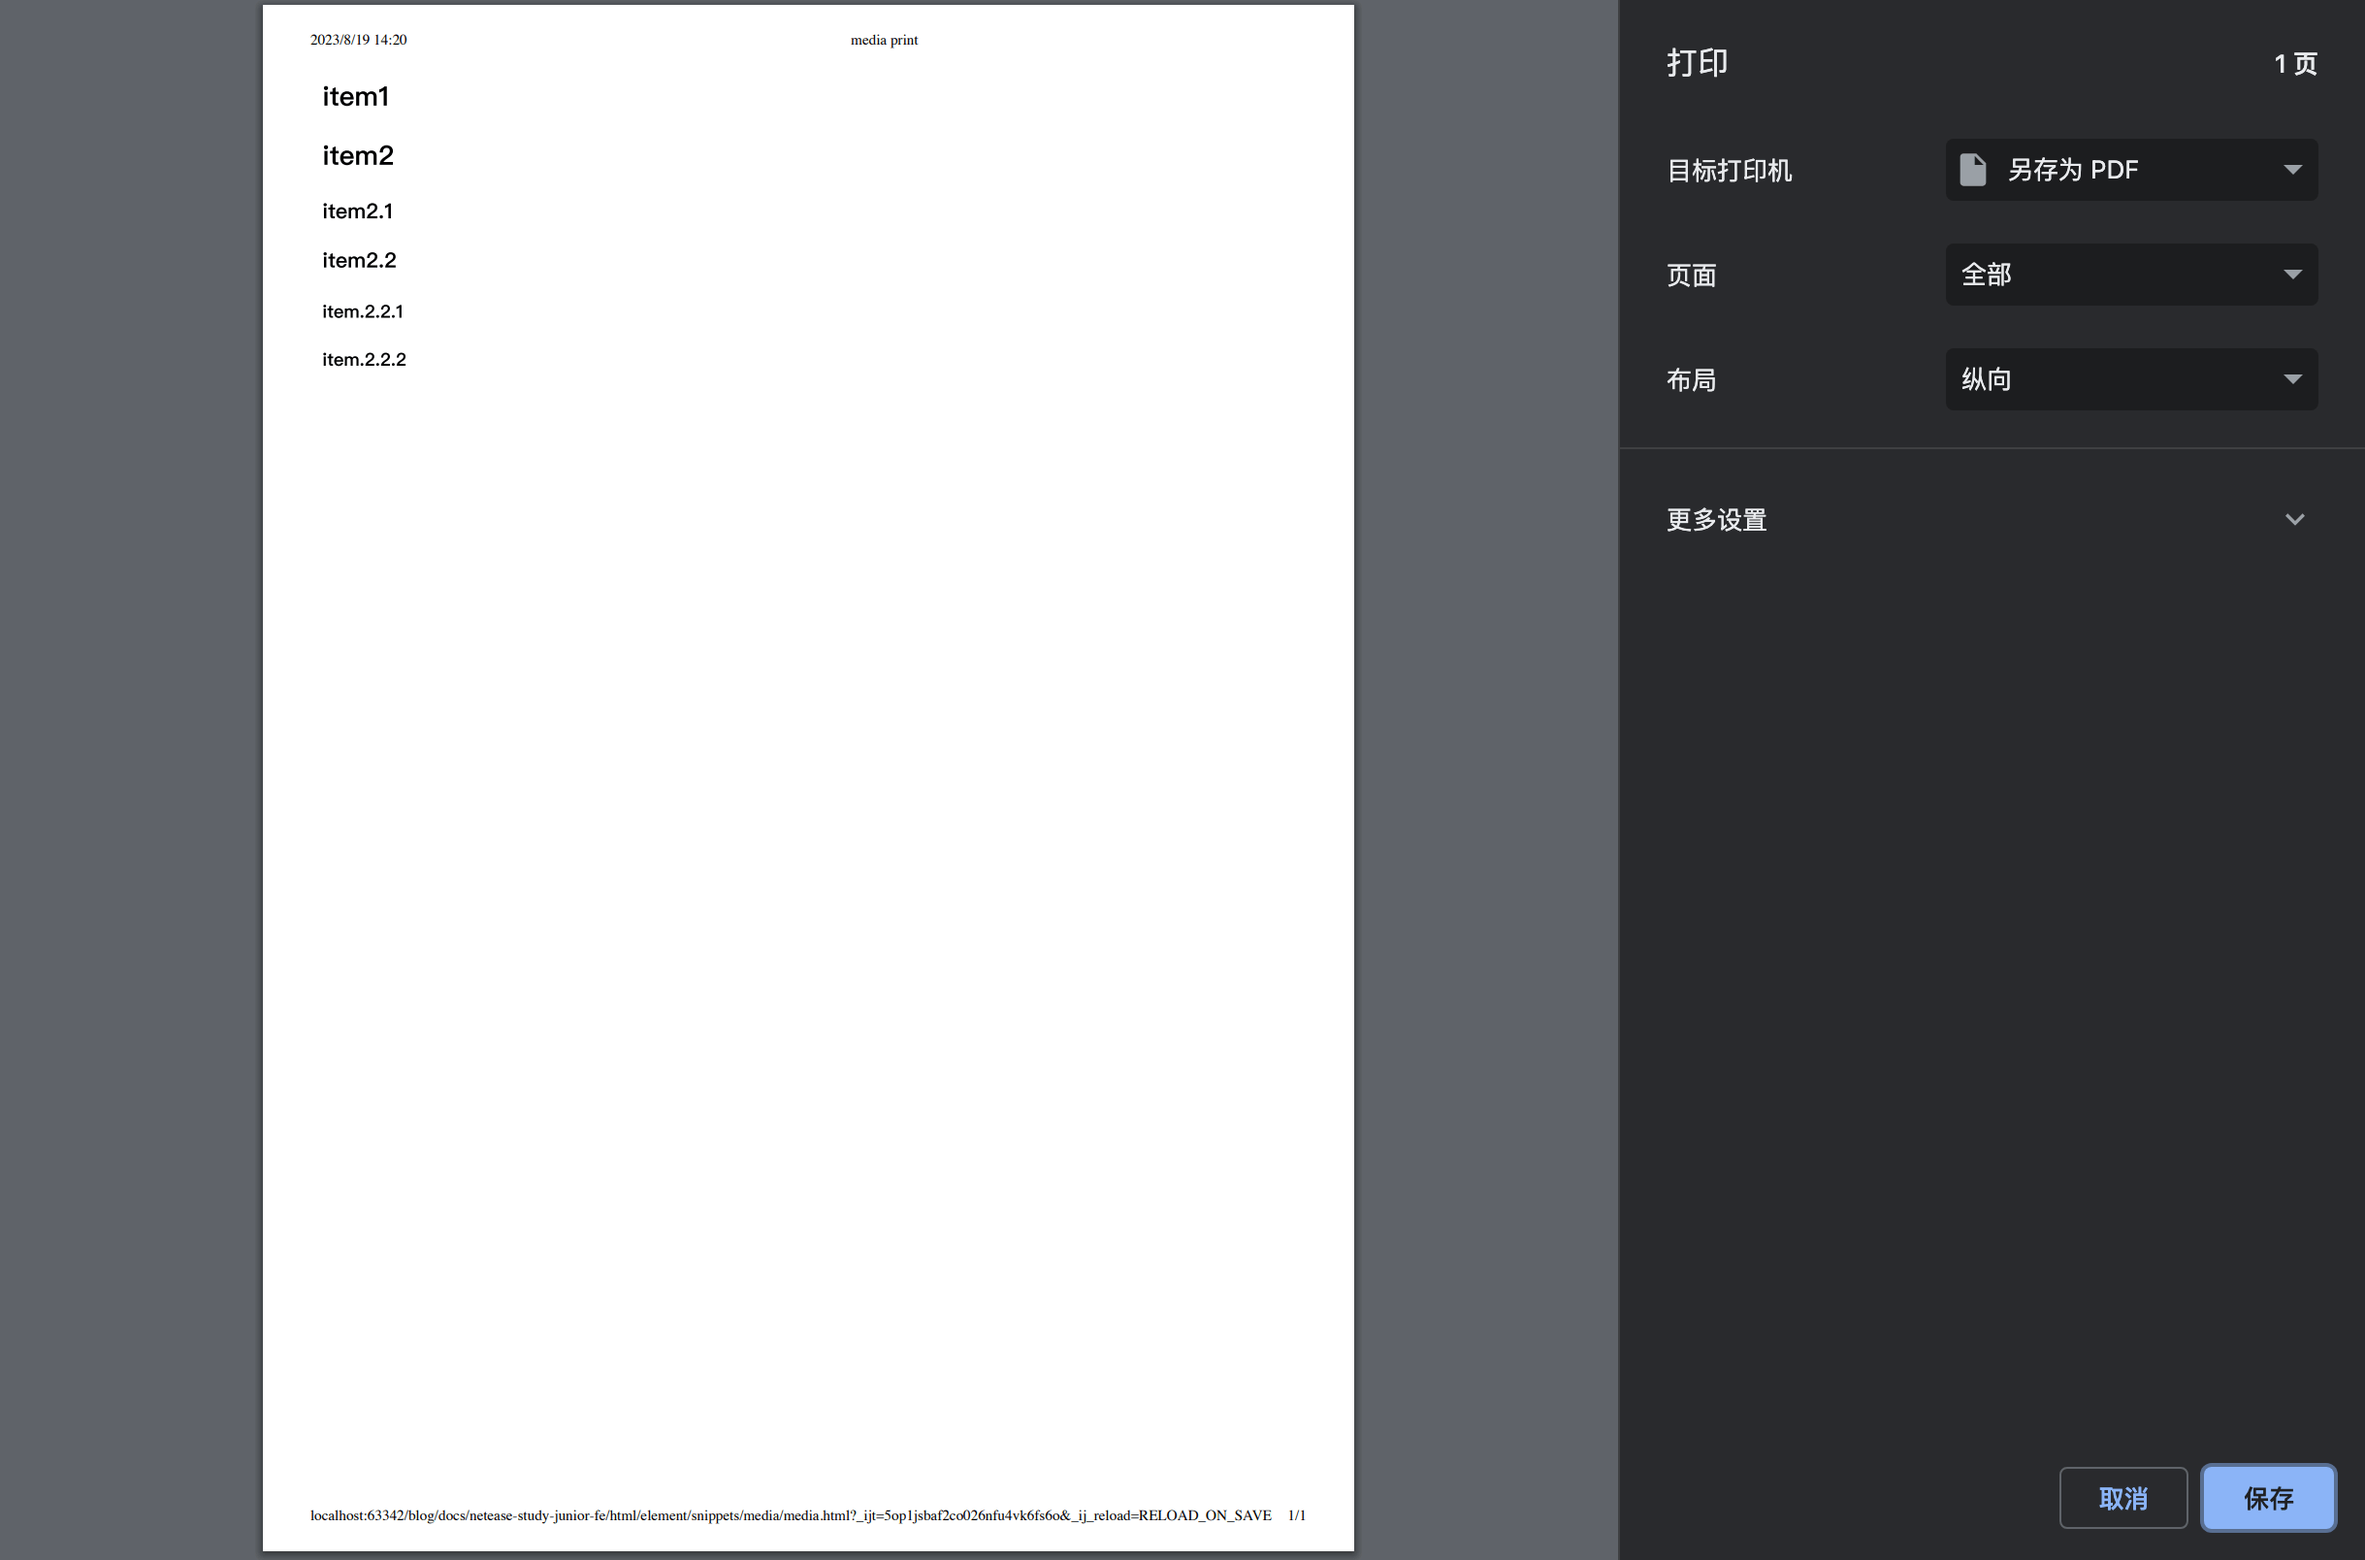
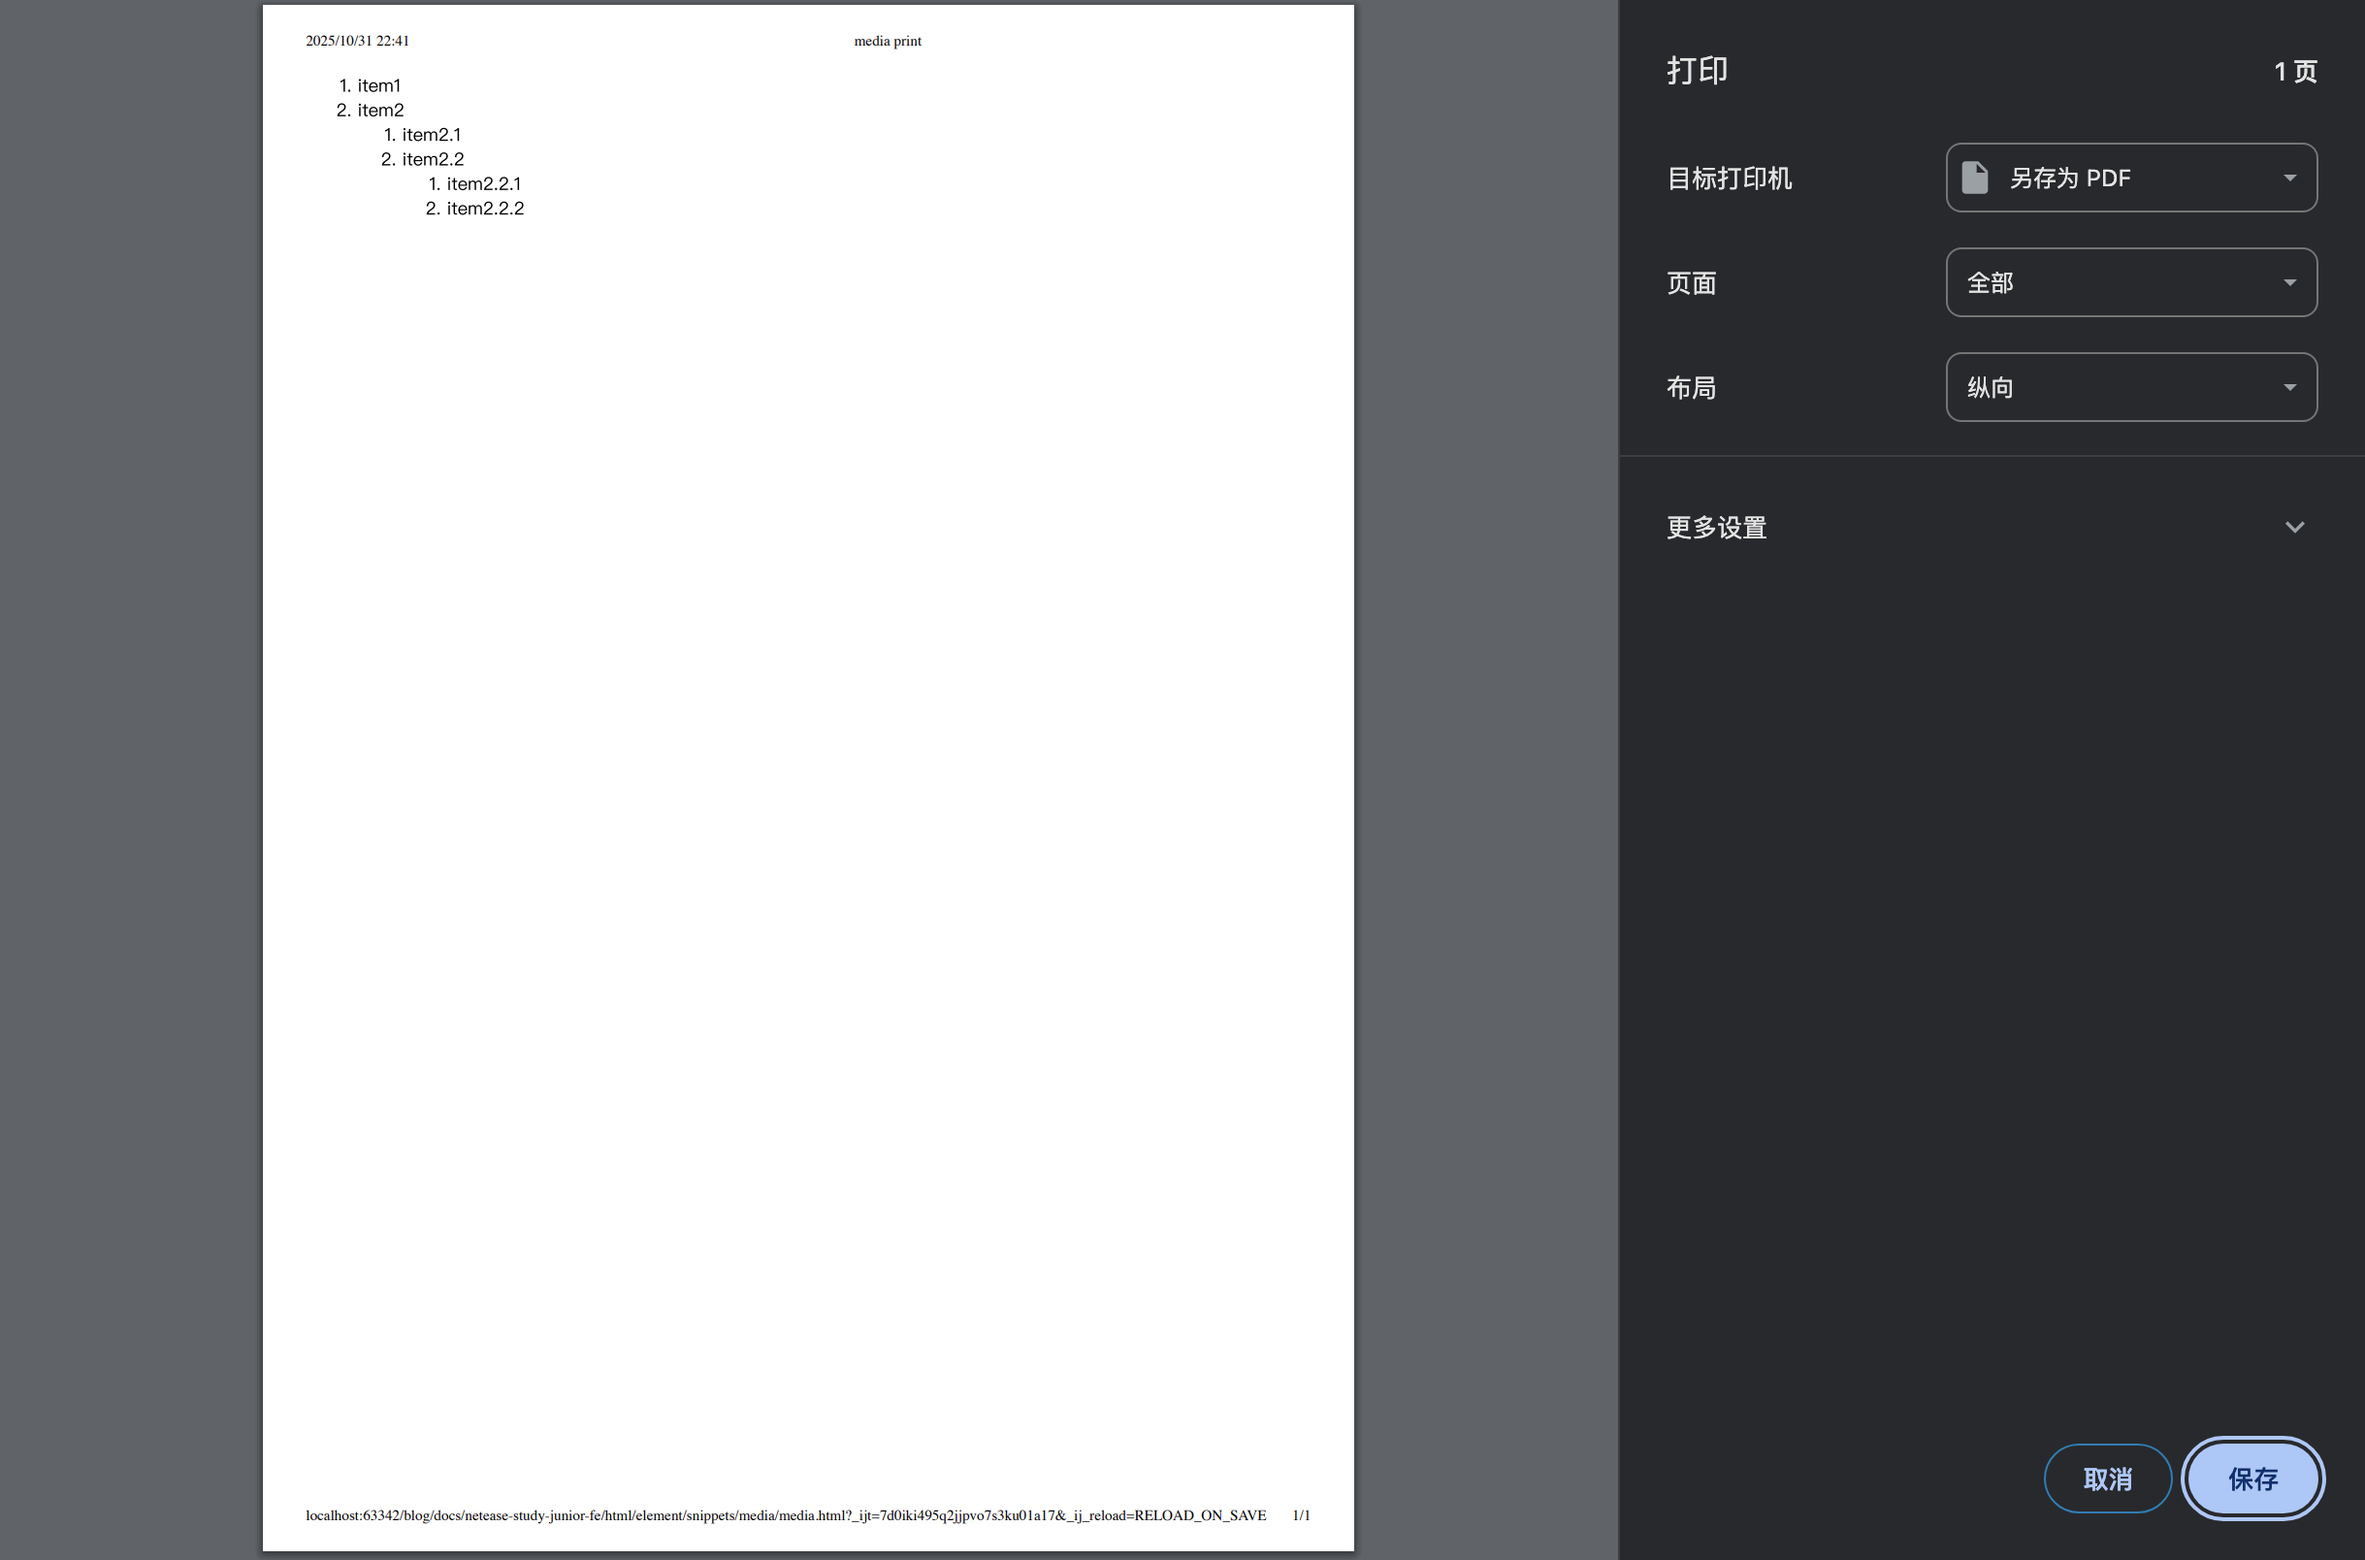
[netease-study-junior-fe] HTML 第三章 HTML 元素 复习

diff --git a/docs/netease-study-junior-fe/html/element/snippets/a/a-download.html b/docs/netease-study-junior-fe/html/element/snippets/a/a-download.html
@@ -1,0 +1,18 @@
+<!DOCTYPE html>
+<html lang="en">
+<head>
+  <meta charset="utf-8">
+  <title>download</title>
+  <style>
+  </style>
+</head>
+<body>
+<h3>download</h3>
+<div>
+  <a href="keyboard-shortcuts-macos.pdf">vsCode快捷键</a>
+  <a href="keyboard-shortcuts-macos.pdf" download>vsCode快捷键（下载)</a>
+  <a href="keyboard-shortcuts-macos.pdf" download="VsCode.pdf">vsCode快捷键（重命名)</a>
+  <a href="https://code.visualstudio.com/shortcuts/keyboard-shortcuts-macos.pdf" download="VsCode.pdf">vsCode快捷键（跨域重命名)</a>
+</div>
+</body>
+</html>

diff --git a/docs/netease-study-junior-fe/html/element/snippets/a/a-email.html b/docs/netease-study-junior-fe/html/element/snippets/a/a-email.html
@@ -1,0 +1,17 @@
+<!DOCTYPE html>
+<html lang="en">
+<head>
+  <meta charset="utf-8">
+  <title>链接到 email、电话号码</title>
+  <style>
+  </style>
+</head>
+<body style="max-width: 300px;">
+<h3>链接到 email、电话号码</h3>
+<div>
+  <a href="mailto:yixinplus@188.com">联系我们</a>
+  <a href="mailto:yixinplus@188.com?cc=admin@188.com&subject=建议&body=body...">联系我们（抄送）</a>
+  <a href="tel:13612345678">13612345678</a>
+</div>
+</body>
+</html>

diff --git a/docs/netease-study-junior-fe/html/element/snippets/media/media.html b/docs/netease-study-junior-fe/html/element/snippets/media/media.html
@@ -13,12 +13,10 @@
 <aside>
   <ol>
     <li>item1</li>
-    <li>item2</li>
-    <li>
+    <li>item2
       <ol>
         <li>item2.1</li>
-        <li>item2.2</li>
-        <li>
+        <li>item2.2
           <ol>
             <li>item2.2.1</li>
             <li>item2.2.2</li>

diff --git a/docs/netease-study-junior-fe/html/element/snippets/a/test.html b/docs/netease-study-junior-fe/html/element/snippets/a/test.html
@@ -1,7 +1,7 @@
 <!DOCTYPE html>
 <html lang="en">
 <head>
-  <meta charset="UTF-8">
+  <meta charset="utf-8">
   <title>课后练习 超链接</title>
   <style>
   </style>

diff --git a/docs/netease-study-junior-fe/html/element/snippets/a/a-inner.html b/docs/netease-study-junior-fe/html/element/snippets/a/a-inner.html
@@ -1,7 +1,7 @@
 <!DOCTYPE html>
 <html lang="en">
 <head>
-  <meta charset="UTF-8">
+  <meta charset="utf-8">
   <title>链接到内部锚点</title>
   <style>
   </style>

diff --git a/docs/netease-study-junior-fe/html/element/snippets/a/a-out.html b/docs/netease-study-junior-fe/html/element/snippets/a/a-out.html
@@ -1,7 +1,7 @@
 <!DOCTYPE html>
 <html lang="en">
 <head>
-  <meta charset="UTF-8">
+  <meta charset="utf-8">
   <title>链接到外部文档</title>
   <style>
   iframe {

diff --git a/docs/netease-study-junior-fe/html/element/snippets/a/site/js.html b/docs/netease-study-junior-fe/html/element/snippets/a/site/js.html
@@ -1,7 +1,7 @@
 <!DOCTYPE html>
 <html lang="en">
 <head>
-  <meta charset="UTF-8">
+  <meta charset="utf-8">
   <title>javascript</title>
 </head>
 <body>

diff --git a/docs/netease-study-junior-fe/html/element/snippets/a/site/framea.html b/docs/netease-study-junior-fe/html/element/snippets/a/site/framea.html
@@ -1,7 +1,7 @@
 <!DOCTYPE html>
 <html lang="en">
 <head>
-  <meta charset="UTF-8">
+  <meta charset="utf-8">
   <title>framea</title>
 </head>
 <body>

diff --git a/docs/netease-study-junior-fe/html/element/snippets/a/site/frameb.html b/docs/netease-study-junior-fe/html/element/snippets/a/site/frameb.html
@@ -1,7 +1,7 @@
 <!DOCTYPE html>
 <html lang="en">
 <head>
-  <meta charset="UTF-8">
+  <meta charset="utf-8">
   <title>frameb</title>
 </head>
 <body>

diff --git a/docs/netease-study-junior-fe/html/element/snippets/a/site/html.html b/docs/netease-study-junior-fe/html/element/snippets/a/site/html.html
@@ -1,7 +1,7 @@
 <!DOCTYPE html>
 <html lang="en">
 <head>
-  <meta charset="UTF-8">
+  <meta charset="utf-8">
   <title>html</title>
 </head>
 <body>

diff --git a/docs/netease-study-junior-fe/html/element/snippets/a/site/css.html b/docs/netease-study-junior-fe/html/element/snippets/a/site/css.html
@@ -1,7 +1,7 @@
 <!DOCTYPE html>
 <html lang="en">
 <head>
-  <meta charset="UTF-8">
+  <meta charset="utf-8">
   <title>css</title>
 </head>
 <body>

diff --git a/docs/netease-study-junior-fe/html/element/snippets/media/print.css b/docs/netease-study-junior-fe/html/element/snippets/media/print.css
@@ -2,8 +2,9 @@ body {
   position: relative;
 }
 aside {
-  display: none;
+  width: 100%;
+
 }
 section {
-  margin-left: 0;
+  display: none;
 }
